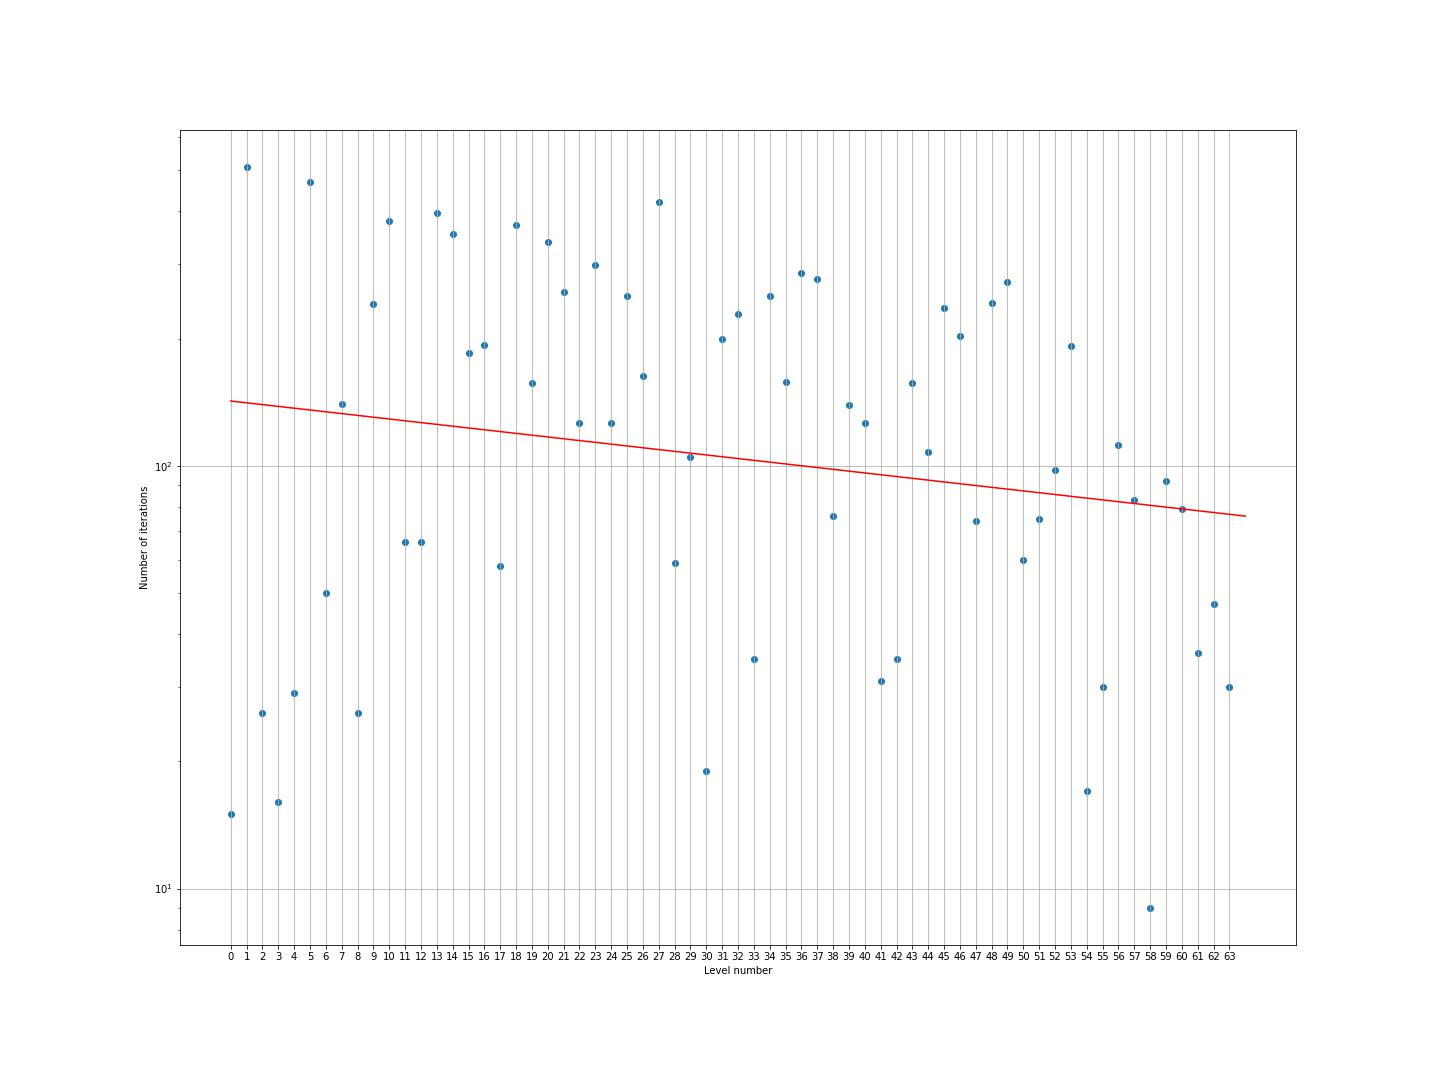
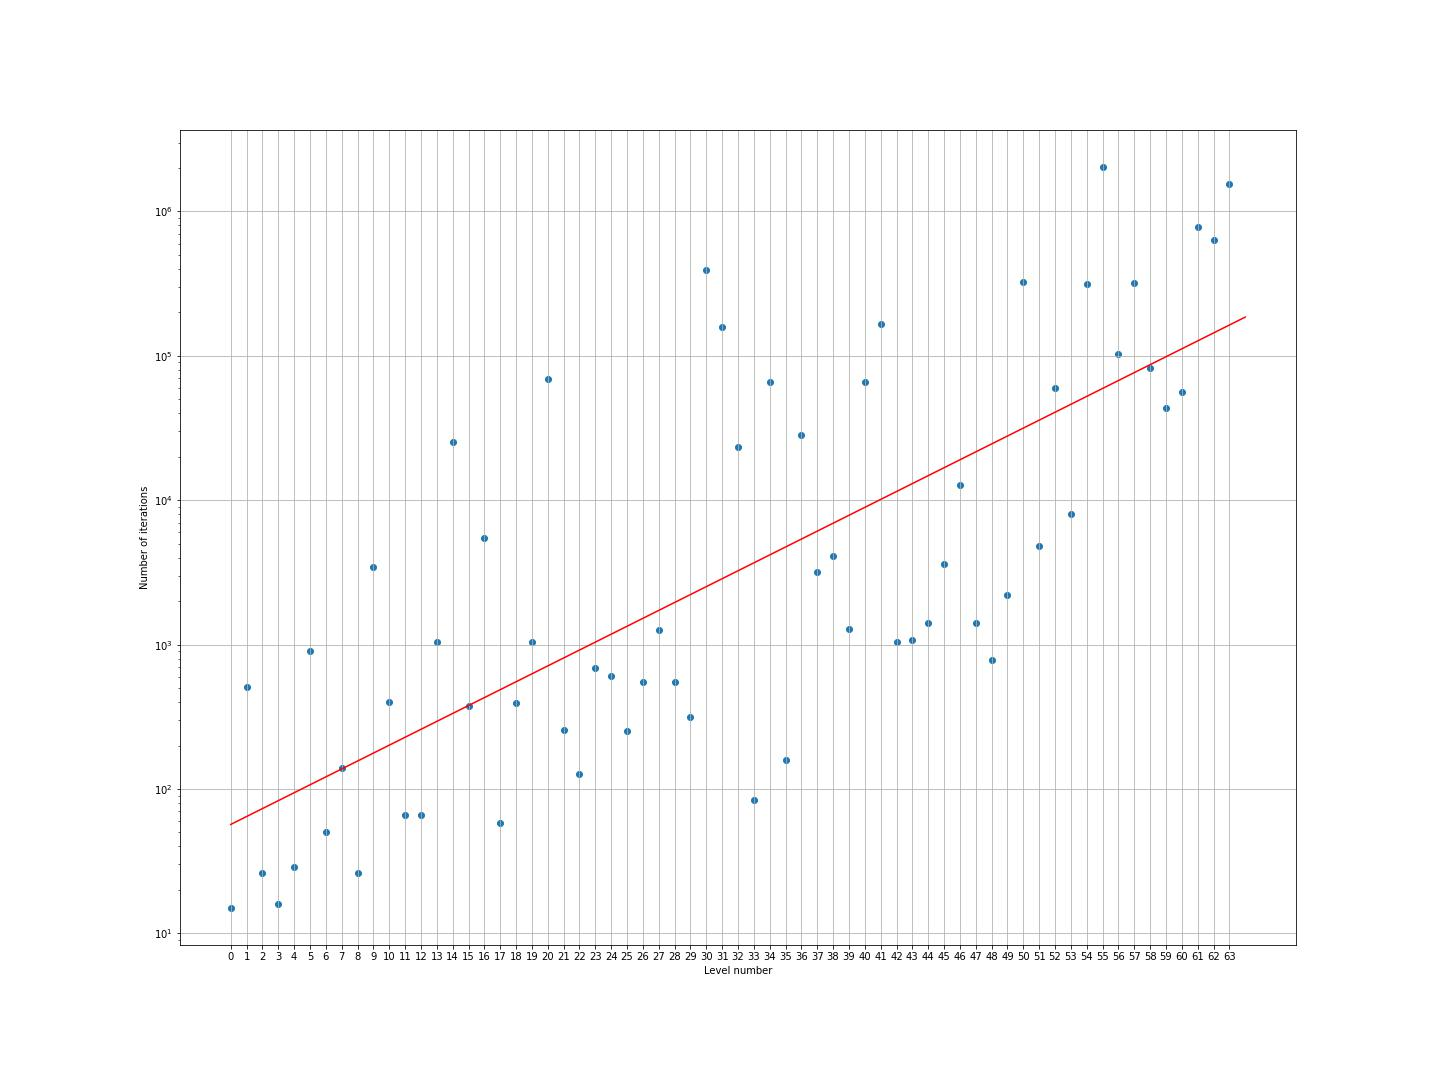
Exporting number of iterations and elementary operations necessary to solve the game as images and txt

diff --git a/logic_gates_mazes_python_code/save_solutions.py b/logic_gates_mazes_python_code/save_solutions.py
@@ -27,10 +27,6 @@ if __name__ == "__main__":
     # for level in Game.levels_list:
     #     print(level.name)
     #     l_solutions.append(level.find_all_solutions(stop_at_first_solution = False, verbose = 2))  
-    # Ces lignes permettent de calculer l'ensemble des solutions des niveaux
-    # Comme la résolution est faite par force brute, elle est tres longue pour le niveau electricity
-    # Elle ne prend que quelques secondes pour les niveaux plus faciles
-    # On ne lance pas ces lignes car le calcul des solutions est déjà fait par la suite.
 
     # Calcul des solutions et enregistrement des resumes des niveaux (avec les solutions) sous forme de texte
     # Cette fonction est un peu longue, et sert uniquement de verification (d'où le sys.exit())
@@ -38,7 +34,9 @@ if __name__ == "__main__":
     # Game.save_levels_txt(verbose = 1, calculates_solutions = True)
 
     # calculations_times = [round(np.exp(10*i + 2*rd.random()),2) for i in range(16)]
-    calculations_times, nb_iterations_list, nb_operations_list = Levels.save_solutions_txt(verbose = 1, multithreads=False, max_calculation_time=float('inf')) 
+    calculations_times, nb_iterations_list, nb_operations_list = Levels.save_solutions_txt(verbose = 1,
+                                                                                           multithreads=False,
+                                                                                           max_calculation_time=float('inf')) 
     # Cette fonction calcule les solutions,
     # les enregistre dans un fichier texte
     # et renvoie le temps nécessaire pour calculer les solutions
